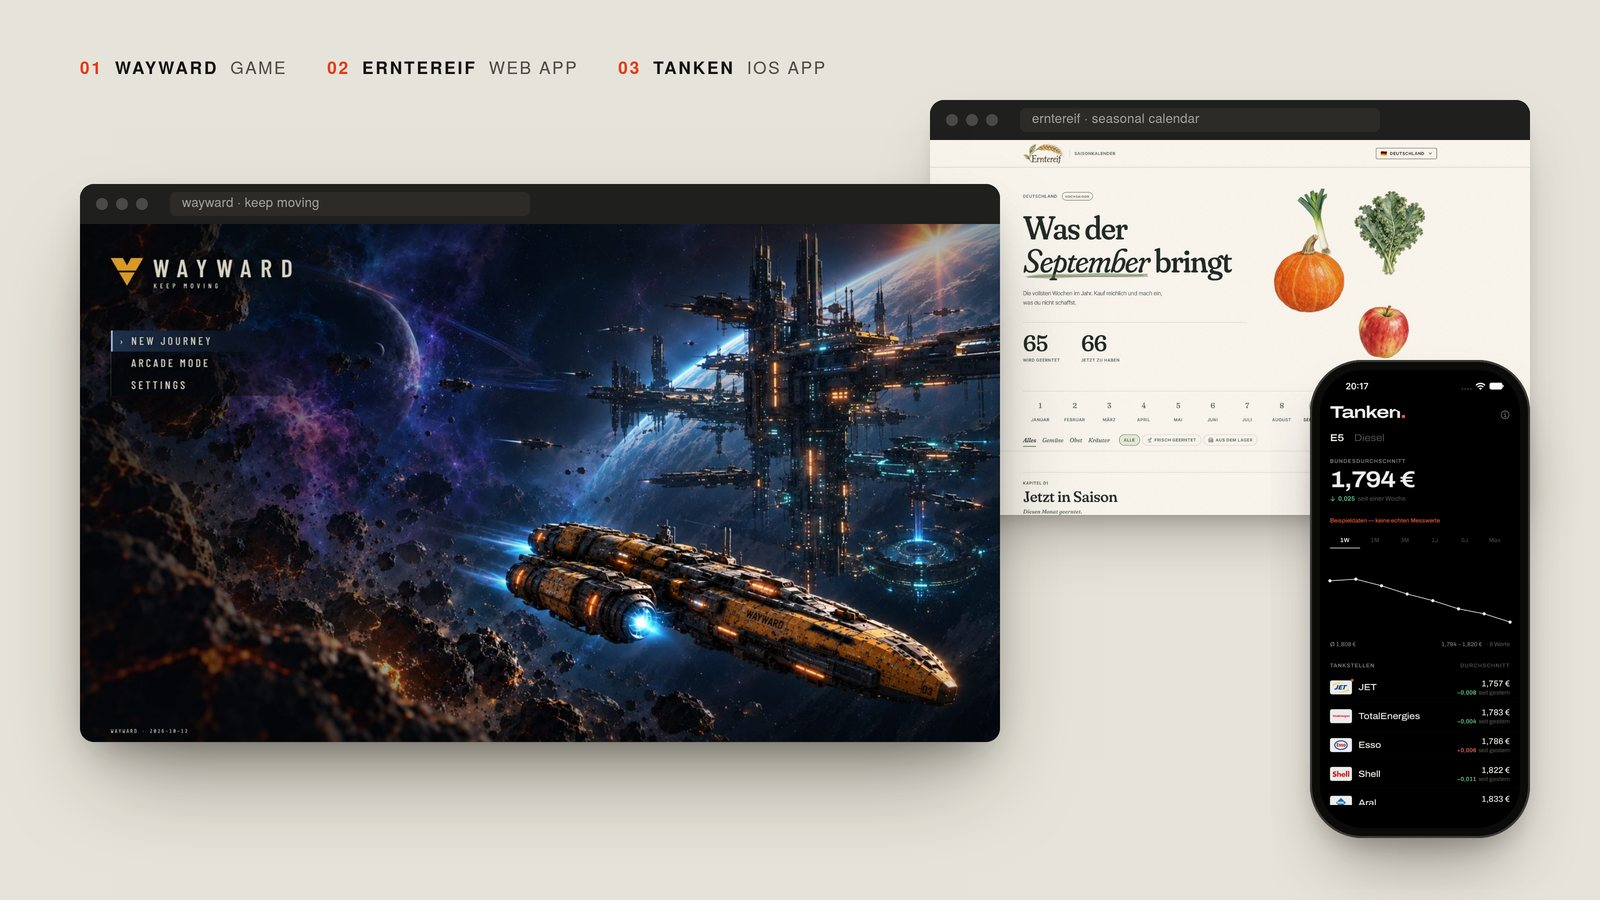
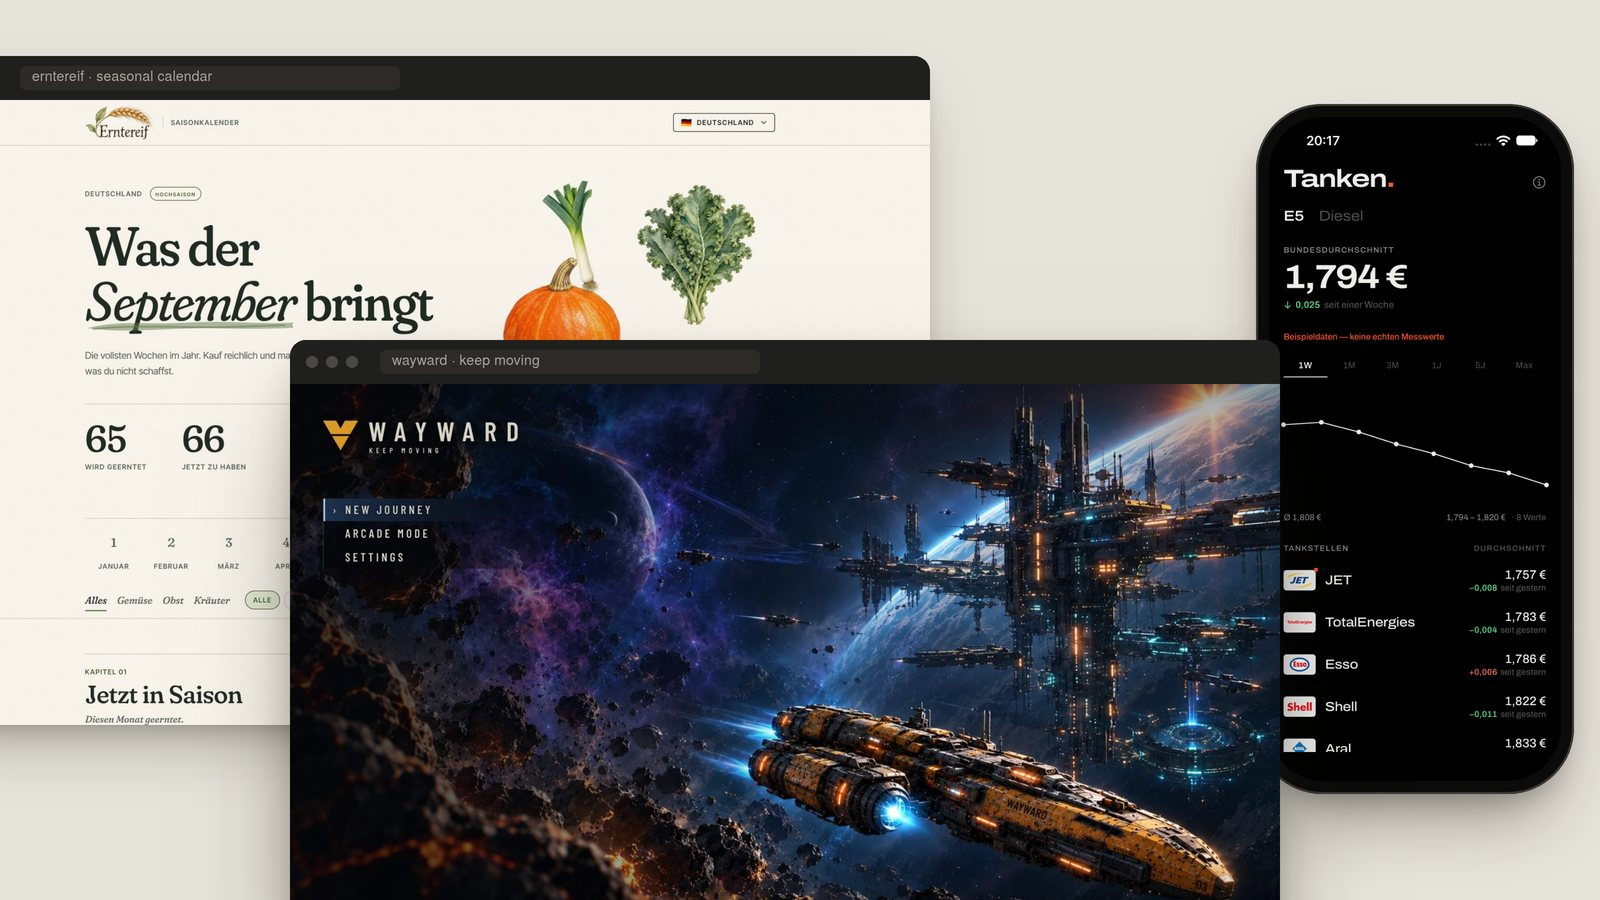
Homepage AI experiments: Jimi's second image
Claude-Session: https://claude.ai/code/session_017KcQSN8T94GWujnXjhRMne

diff --git a/index.html b/index.html
@@ -283,7 +283,7 @@
     <a href="lab.html" class="wproj is-solo">
       <div class="wproj-body">
         <div class="wproj-fig is-art">
-          <img src="img/side-projects.jpg" alt="Wayward, Erntereif and Tanken side by side: the Wayward game menu in a browser window, the Erntereif seasonal calendar in a second window, and Tanken fuel prices on an iPhone" loading="lazy" width="1600" height="900">
+          <img src="img/side-projects.jpg" alt="The Wayward game menu in a browser window, in front of the Erntereif seasonal calendar in a second window and Tanken fuel prices on an iPhone" loading="lazy" width="1600" height="900">
         </div>
         <div class="wproj-txt">
           <h3 class="wproj-t is-long">Asteroids, seasonal veg, <em>and diesel prices.</em></h3>
